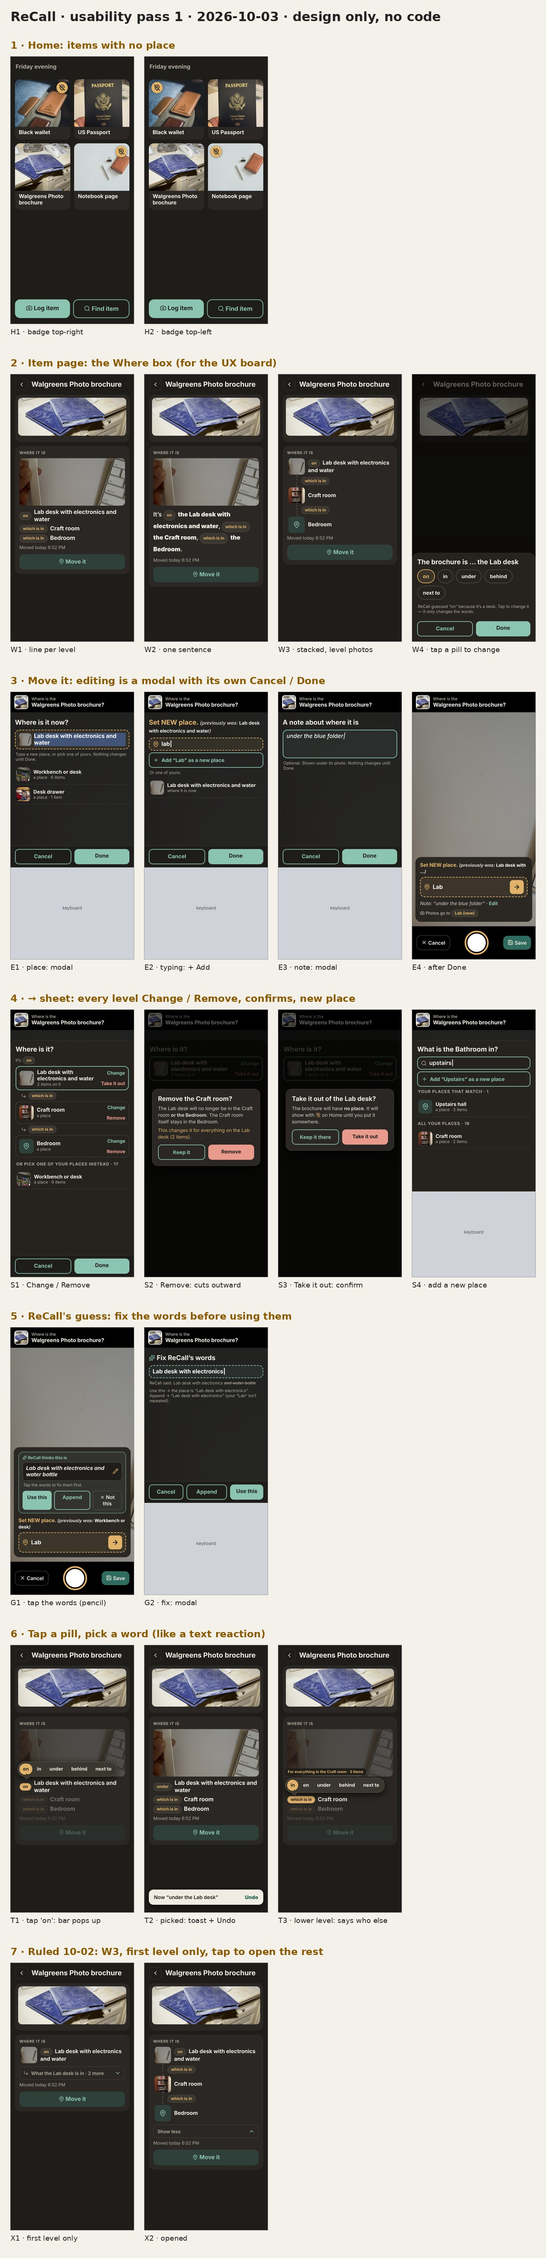
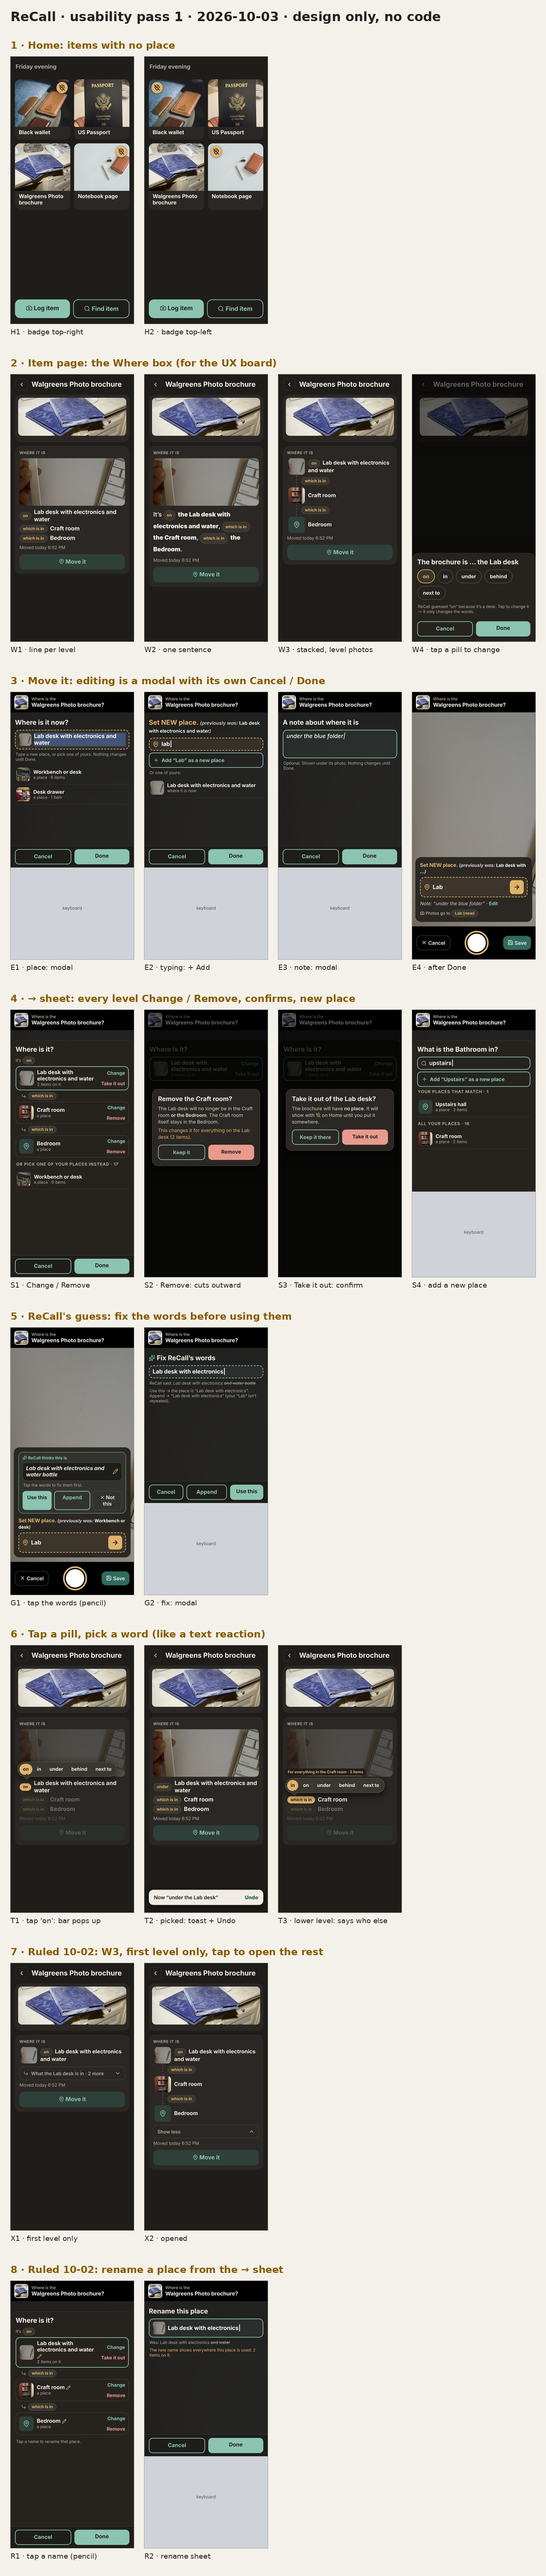
Usability pass 1: fully ruled; rename drawn

diff --git a/06_Handoffs/design/BOARD_2026-10-03_usability-1.md b/06_Handoffs/design/BOARD_2026-10-03_usability-1.md
@@ -149,10 +149,15 @@ Ravi's first set (10-03), on the live build:
   path: the Lab desk is now in nothing. The Craft room place itself is untouched and stays in the Bedroom. The same
   goes for *Change*: the new place brings its own outer levels. This overrides Sam's splice. S2 has been redrawn to
   read "…no longer be in the Craft room or the Bedroom."
-- **Rename a saved place by tapping its name in the → sheet: yes (Tanya).** To draw next pass.
+- **Rename a saved place by tapping its name in the → sheet: yes (Tanya).** Drawn as R1–R2.
+  - **R1:** each name has a pencil.
+  - **R2:** the rename sheet has the name, "Was: … ~~and water~~", and "The new name shows everywhere this place is
+    used: 2 items on it". It has its own Cancel and Done.
 - **No view (Tanya), so Claude's pick stands:** edit sheets cost one tap (Done) before the next photo. ReCall's guess
   is fixed in a sheet (G2).
 
-## Still open
-3. Can the shared lower-level words (T3) be changed from the item page, or only from the → sheet?
-5. Two sheets (place E1 and levels S1), or one?
+- **Claude's picks taken (Tanya, "go with your assumptions"):**
+  - A shared lower-level word (T3) can be changed from the item page, and the bar says who else it changes.
+  - The place sheet (E1) and the levels sheet (S1) stay separate.
+
+**Pass 1 is fully ruled.** No code until more passes are agreed.
